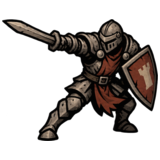
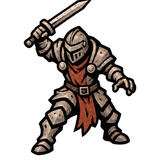
Replace shields with trinkets and ink the party and terrain

diff --git a/README.md b/README.md
@@ -9,14 +9,15 @@ Open the repository’s `project.godot` in Godot 4 and press **F5**. This single
 - Click a portrait in **Party**, click a living hero on the map, or press **1**, **2**, or **3** to switch heroes and inspect their equipment. Click highlighted tiles to move. Scroll to zoom, drag the field to pan, and press **F11** to toggle fullscreen. Each hero starts with 3 movement tiles per turn, which can be split before, between, or after attacks.
 - Click a creature within the selected hero’s weapon range to attack. Attacks, Heal, and Revive work across edges or corners. Two blocking tiles seal a diagonal corner. Bows require at least 2 tiles of range. The Ranger starts with 3 action points and can shoot twice per turn. Each shot spends 1 action point and 1 bow attack.
 - **Ranger — Overwatch:** Spend 1 action point and one bow attack to fire once when a creature moves within bow range during the enemy phase.
-- **Knight — Defend:** The equipped shield and armor passively reduce melee damage. Spend 1 action point on Defend to reduce the next melee hit by an additional point, plus any Shield Drill ranks. The Knight starts with 18 HP, 3 movement, 3 AP, and one adjacent sword strike per turn.
+- **Knight — Parry:** Armor passively reduces melee damage. Spend 1 action point to parry with the sword, reducing the next melee hit by 1 plus any Parry Drill ranks. The Knight starts with 18 HP, 3 movement, 3 AP, and one adjacent sword strike per turn.
 - **Priest — Heal and Revival:** Starts with 14 HP, 3 movement, 3 AP, a Travel Coat, and one adjacent Pilgrim Mace strike per turn. Spend 1 AP to restore 3 HP to yourself or an adjacent living ally. Merciful Light adds 1 HP per rank, up to rank III.
 - Click an adjacent downed ally or use **Revive** to return them at 1 HP. It costs 2 AP for the Ranger or Knight and 1 AP for the Priest. Revived heroes regain their action and movement budgets on the next turn.
 - Hover over an enemy to preview its approach and possible target. The heroes share a turn and spend their own budgets.
 - Press **Space** or click **End Turn**. Ending a turn outside the circular firelight costs 1 HP.
 - The hero who lands the killing blow earns 4 XP. Every party member earns 6 XP for a cleared wave. Ballista kills grant no individual XP. Each hero chooses their own upgrades at a wave break or before dawn. Most upgrades have three ranks, and effective bow range caps at ten tiles including equipment. If unlocked, toggle **Pinning Shot** and click an enemy to slow it.
 - Build walls or ballistae on free lit tiles between waves. Click an existing wall or ballista during preparation to open its on-map **Upgrade**, **Repair**, and **Destroy** controls. Ballista upgrades increase range and damage, and wall upgrades increase maximum HP. Repair costs 1 supply and restores full HP. Destroy returns half the build and upgrade cost, rounded down. Adjacent wall segments join automatically.
-- Gear names are colored by rarity. Common (white) is starting gear, and Uncommon (green) is standard merchant and salvage gear. Regular drops have a 20% chance to be Rare (blue) and a 5% chance to be Epic (purple). These tiers roll a prefix suited to the item slot, such as Keen for damage or Stout for health. The Hollow Maw is the only source of Legendary (orange-red) gear, with a 5% chance per defeat. Mawforged weapons add 2 damage and restore 1 HP on a hero's killing blow. Mawforged armor and shields add 4 maximum HP and 1 melee guard.
+- Gear names are colored by rarity. Common (white) is starting gear, and Uncommon (green) is standard merchant and salvage gear. Regular drops have a 20% chance to be Rare (blue) and a 5% chance to be Epic (purple). These tiers roll a prefix suited to the item slot, such as Keen for damage or Stout for health. The Hollow Maw is the only source of Legendary (orange-red) gear, with a 5% chance per defeat. Mawforged weapons add 2 damage and restore 1 HP on a hero's killing blow. Mawforged armor adds 4 maximum HP and 1 melee guard.
+- Each class equips its own weapon type. Armor and trinkets are shared equipment types. The trader sells a Trail Charm (+1 movement each turn), and Stoneford salvage can include an Ember Charm (restore 2 HP to its living wearer when a wave clears).
 - Each cleared wave awards 4 supplies. Unspent supplies carry into the next wave and travel with the caravan to the next campsite.
 - Open **Menu** in the upper-right or press **Esc** for audio settings, restart, or exit. Settings save locally and include master volume, effects, night ambience, and a separate music toggle.
 - Survive the night and select **Break Camp at Dawn** to collect loot marked by bags. Select a portrait during the day to equip compatible gear from the caravan stash. Swapped-out gear returns to the stash. Buy or sell at the roadside trader, and select **Set Up Camp at Dusk** to start the next defense.
